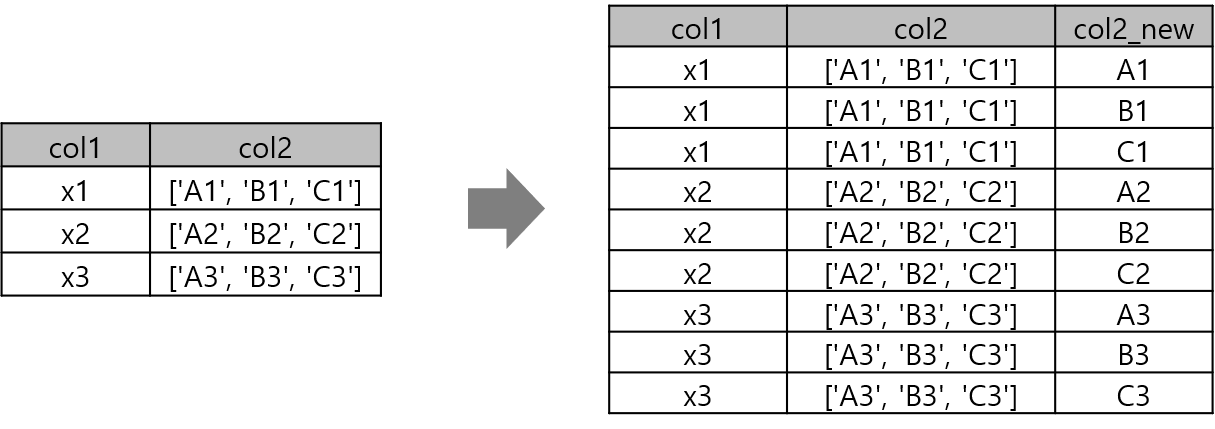
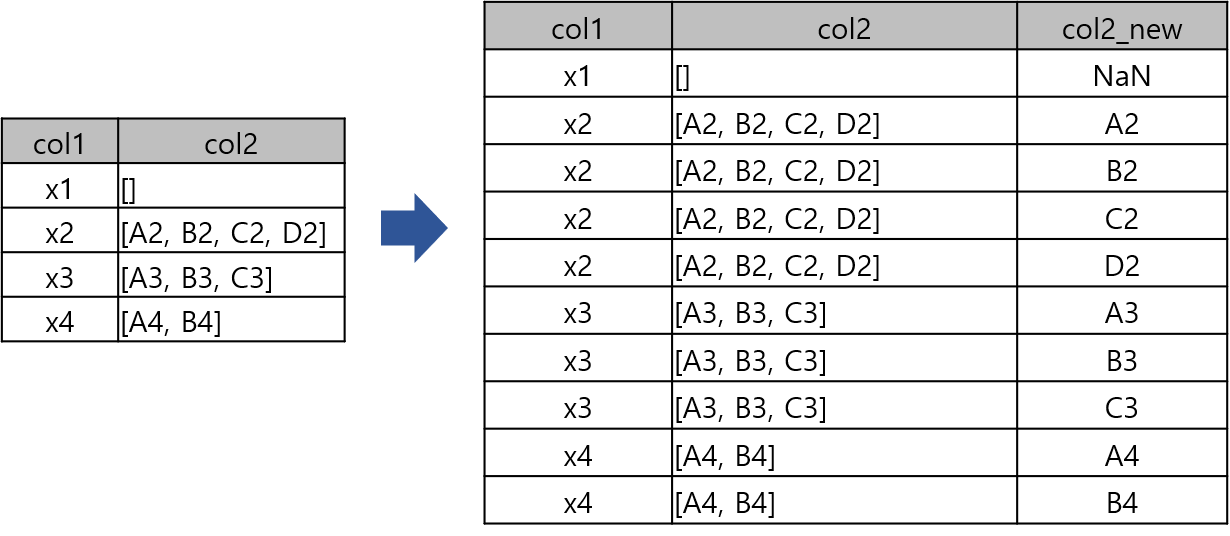
change example

Changed region(s): [[0.0, 0.0, 1.0, 1.0]]

diff --git a/_posts/2019-10-24-memo_12.md b/_posts/2019-10-24-memo_12.md
@@ -35,8 +35,8 @@ last_modified_at: 2019-10-24T19:00-19:30
 
 ```python
 import pandas as pd
-df = pd.DataFrame({'col1': ['x1','x2','x3'],
-                   'col2': [['A1','B1','C1'],['A2','B2','C2'],['A3','B3','C3']]})
+df = pd.DataFrame({'col1': ['x1','x2','x3','x4'],
+                   'col2': [[],['A2','B2','C2','D2'],['A3','B3','C3'], ['A4','B4']]})
 df
 ```
 
@@ -67,19 +67,24 @@ df
   </thead>
   <tbody>
     <tr>
-      <th>0</th>
+      <td>0</td>
       <td>x1</td>
-      <td>[A1, B1, C1]</td>
+      <td>[]</td>
     </tr>
     <tr>
-      <th>1</th>
+      <td>1</td>
       <td>x2</td>
-      <td>[A2, B2, C2]</td>
+      <td>[A2, B2, C2, D2]</td>
     </tr>
     <tr>
-      <th>2</th>
+      <td>2</td>
       <td>x3</td>
       <td>[A3, B3, C3]</td>
+    </tr>
+    <tr>
+      <td>3</td>
+      <td>x4</td>
+      <td>[A4, B4]</td>
     </tr>
   </tbody>
 </table>
@@ -121,62 +126,71 @@ df2
   </thead>
   <tbody>
     <tr>
-      <th>0</th>
+      <td>0</td>
       <td>x1</td>
-      <td>[A1, B1, C1]</td>
-      <td>A1</td>
+      <td>[]</td>
+      <td>NaN</td>
     </tr>
     <tr>
-      <th>0</th>
-      <td>x1</td>
-      <td>[A1, B1, C1]</td>
-      <td>B1</td>
-    </tr>
-    <tr>
-      <th>0</th>
-      <td>x1</td>
-      <td>[A1, B1, C1]</td>
-      <td>C1</td>
-    </tr>
-    <tr>
-      <th>1</th>
+      <td>1</td>
       <td>x2</td>
-      <td>[A2, B2, C2]</td>
+      <td>[A2, B2, C2, D2]</td>
       <td>A2</td>
     </tr>
     <tr>
-      <th>1</th>
+      <td>1</td>
       <td>x2</td>
-      <td>[A2, B2, C2]</td>
+      <td>[A2, B2, C2, D2]</td>
       <td>B2</td>
     </tr>
     <tr>
-      <th>1</th>
+      <td>1</td>
       <td>x2</td>
-      <td>[A2, B2, C2]</td>
+      <td>[A2, B2, C2, D2]</td>
       <td>C2</td>
     </tr>
     <tr>
-      <th>2</th>
+      <td>1</td>
+      <td>x2</td>
+      <td>[A2, B2, C2, D2]</td>
+      <td>D2</td>
+    </tr>
+    <tr>
+      <td>2</td>
       <td>x3</td>
       <td>[A3, B3, C3]</td>
       <td>A3</td>
     </tr>
     <tr>
-      <th>2</th>
+      <td>2</td>
       <td>x3</td>
       <td>[A3, B3, C3]</td>
       <td>B3</td>
     </tr>
     <tr>
-      <th>2</th>
+      <td>2</td>
       <td>x3</td>
       <td>[A3, B3, C3]</td>
       <td>C3</td>
     </tr>
+    <tr>
+      <td>3</td>
+      <td>x4</td>
+      <td>[A4, B4]</td>
+      <td>A4</td>
+    </tr>
+    <tr>
+      <td>3</td>
+      <td>x4</td>
+      <td>[A4, B4]</td>
+      <td>B4</td>
+    </tr>
   </tbody>
 </table>
 </div>
+
+
+
 
 
 위 작업의 순서는 다음과 같다.  
@@ -185,9 +199,13 @@ df2
 > 1.`.apply(lambda x : pd.Series(x))` : 각 원소(리스트)를 판다스 Series로 변형  
 
 
+
 ```python
-df['col2'].apply(pd.Series)
+df['col2'].apply(lambda x: pd.Series(x))
 ```
+
+
+
 
 <div>
 <style scoped>
@@ -210,47 +228,59 @@ df['col2'].apply(pd.Series)
       <th>0</th>
       <th>1</th>
       <th>2</th>
+      <th>3</th>
     </tr>
   </thead>
   <tbody>
     <tr>
-      <th>0</th>
-      <td>A1</td>
-      <td>B1</td>
-      <td>C1</td>
+      <td>0</td>
+      <td>NaN</td>
+      <td>NaN</td>
+      <td>NaN</td>
+      <td>NaN</td>
     </tr>
     <tr>
-      <th>1</th>
+      <td>1</td>
       <td>A2</td>
       <td>B2</td>
       <td>C2</td>
+      <td>D2</td>
     </tr>
     <tr>
-      <th>2</th>
+      <td>2</td>
       <td>A3</td>
       <td>B3</td>
       <td>C3</td>
+      <td>NaN</td>
+    </tr>
+    <tr>
+      <td>3</td>
+      <td>A4</td>
+      <td>B4</td>
+      <td>NaN</td>
+      <td>NaN</td>
     </tr>
   </tbody>
 </table>
 </div>
 
 
+
 > 2.`.stack()` : 각 행을 하나의 열로 쌓음  
 
 ```python
-df['col2'].apply(pd.Series).stack()
+df['col2'].apply(lambda x: pd.Series(x)).stack()
 ```
 
-    0  0    A1
-       1    B1
-       2    C1
     1  0    A2
        1    B2
        2    C2
+       3    D2
     2  0    A3
        1    B3
        2    C3
+    3  0    A4
+       1    B4
     dtype: object
 
 
@@ -259,6 +289,8 @@ df['col2'].apply(pd.Series).stack()
 ```python
 df['col2'].apply(pd.Series).stack().reset_index(1, name='col2_new').drop('level_1', axis=1)
 ```
+
+
 
 
 <div>
@@ -284,40 +316,40 @@ df['col2'].apply(pd.Series).stack().reset_index(1, name='col2_new').drop('level_
   </thead>
   <tbody>
     <tr>
-      <th>0</th>
-      <td>A1</td>
-    </tr>
-    <tr>
-      <th>0</th>
-      <td>B1</td>
-    </tr>
-    <tr>
-      <th>0</th>
-      <td>C1</td>
-    </tr>
-    <tr>
-      <th>1</th>
+      <td>1</td>
       <td>A2</td>
     </tr>
     <tr>
-      <th>1</th>
+      <td>1</td>
       <td>B2</td>
     </tr>
     <tr>
-      <th>1</th>
+      <td>1</td>
       <td>C2</td>
     </tr>
     <tr>
-      <th>2</th>
+      <td>1</td>
+      <td>D2</td>
+    </tr>
+    <tr>
+      <td>2</td>
       <td>A3</td>
     </tr>
     <tr>
-      <th>2</th>
+      <td>2</td>
       <td>B3</td>
     </tr>
     <tr>
-      <th>2</th>
+      <td>2</td>
       <td>C3</td>
+    </tr>
+    <tr>
+      <td>3</td>
+      <td>A4</td>
+    </tr>
+    <tr>
+      <td>3</td>
+      <td>B4</td>
     </tr>
   </tbody>
 </table>
@@ -331,6 +363,7 @@ df['col2'].apply(pd.Series).stack().reset_index(1, name='col2_new').drop('level_
 ```python
 df.join(df['col2'].apply(pd.Series).stack().reset_index(1, name='col2_new').drop('level_1', axis=1))
 ```
+
 
 
 
@@ -359,58 +392,64 @@ df.join(df['col2'].apply(pd.Series).stack().reset_index(1, name='col2_new').drop
   </thead>
   <tbody>
     <tr>
-      <th>0</th>
+      <td>0</td>
       <td>x1</td>
-      <td>[A1, B1, C1]</td>
-      <td>A1</td>
+      <td>[]</td>
+      <td>NaN</td>
     </tr>
     <tr>
-      <th>0</th>
-      <td>x1</td>
-      <td>[A1, B1, C1]</td>
-      <td>B1</td>
-    </tr>
-    <tr>
-      <th>0</th>
-      <td>x1</td>
-      <td>[A1, B1, C1]</td>
-      <td>C1</td>
-    </tr>
-    <tr>
-      <th>1</th>
+      <td>1</td>
       <td>x2</td>
-      <td>[A2, B2, C2]</td>
+      <td>[A2, B2, C2, D2]</td>
       <td>A2</td>
     </tr>
     <tr>
-      <th>1</th>
+      <td>1</td>
       <td>x2</td>
-      <td>[A2, B2, C2]</td>
+      <td>[A2, B2, C2, D2]</td>
       <td>B2</td>
     </tr>
     <tr>
-      <th>1</th>
+      <td>1</td>
       <td>x2</td>
-      <td>[A2, B2, C2]</td>
+      <td>[A2, B2, C2, D2]</td>
       <td>C2</td>
     </tr>
     <tr>
-      <th>2</th>
+      <td>1</td>
+      <td>x2</td>
+      <td>[A2, B2, C2, D2]</td>
+      <td>D2</td>
+    </tr>
+    <tr>
+      <td>2</td>
       <td>x3</td>
       <td>[A3, B3, C3]</td>
       <td>A3</td>
     </tr>
     <tr>
-      <th>2</th>
+      <td>2</td>
       <td>x3</td>
       <td>[A3, B3, C3]</td>
       <td>B3</td>
     </tr>
     <tr>
-      <th>2</th>
+      <td>2</td>
       <td>x3</td>
       <td>[A3, B3, C3]</td>
       <td>C3</td>
+    </tr>
+    <tr>
+      <td>3</td>
+      <td>x4</td>
+      <td>[A4, B4]</td>
+      <td>A4</td>
+    </tr>
+    <tr>
+      <td>3</td>
+      <td>x4</td>
+      <td>[A4, B4]</td>
+      <td>B4</td>
     </tr>
   </tbody>
 </table>
